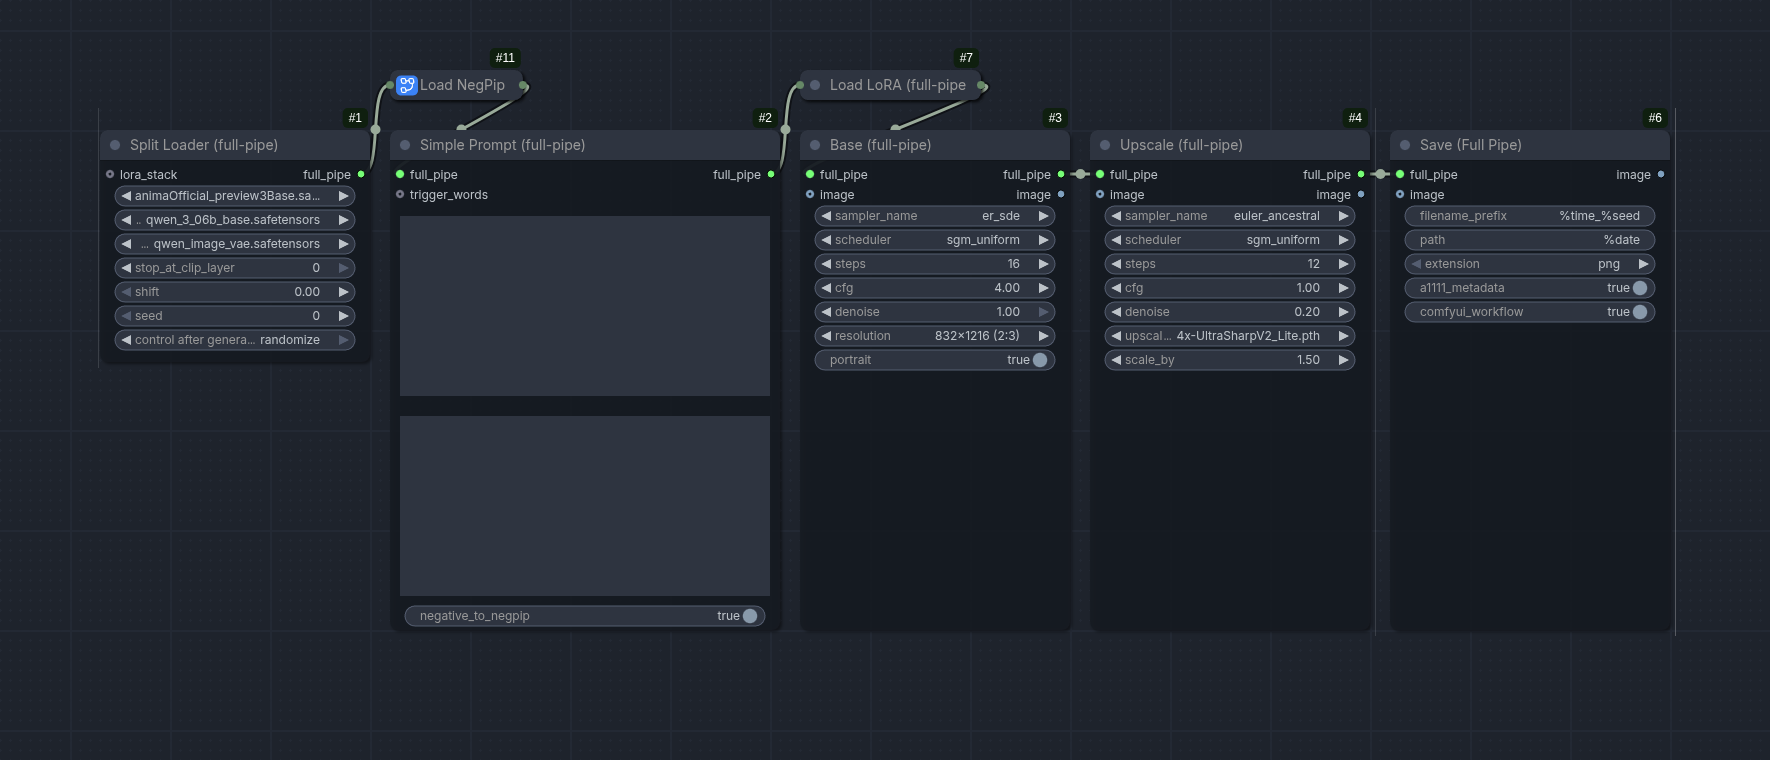
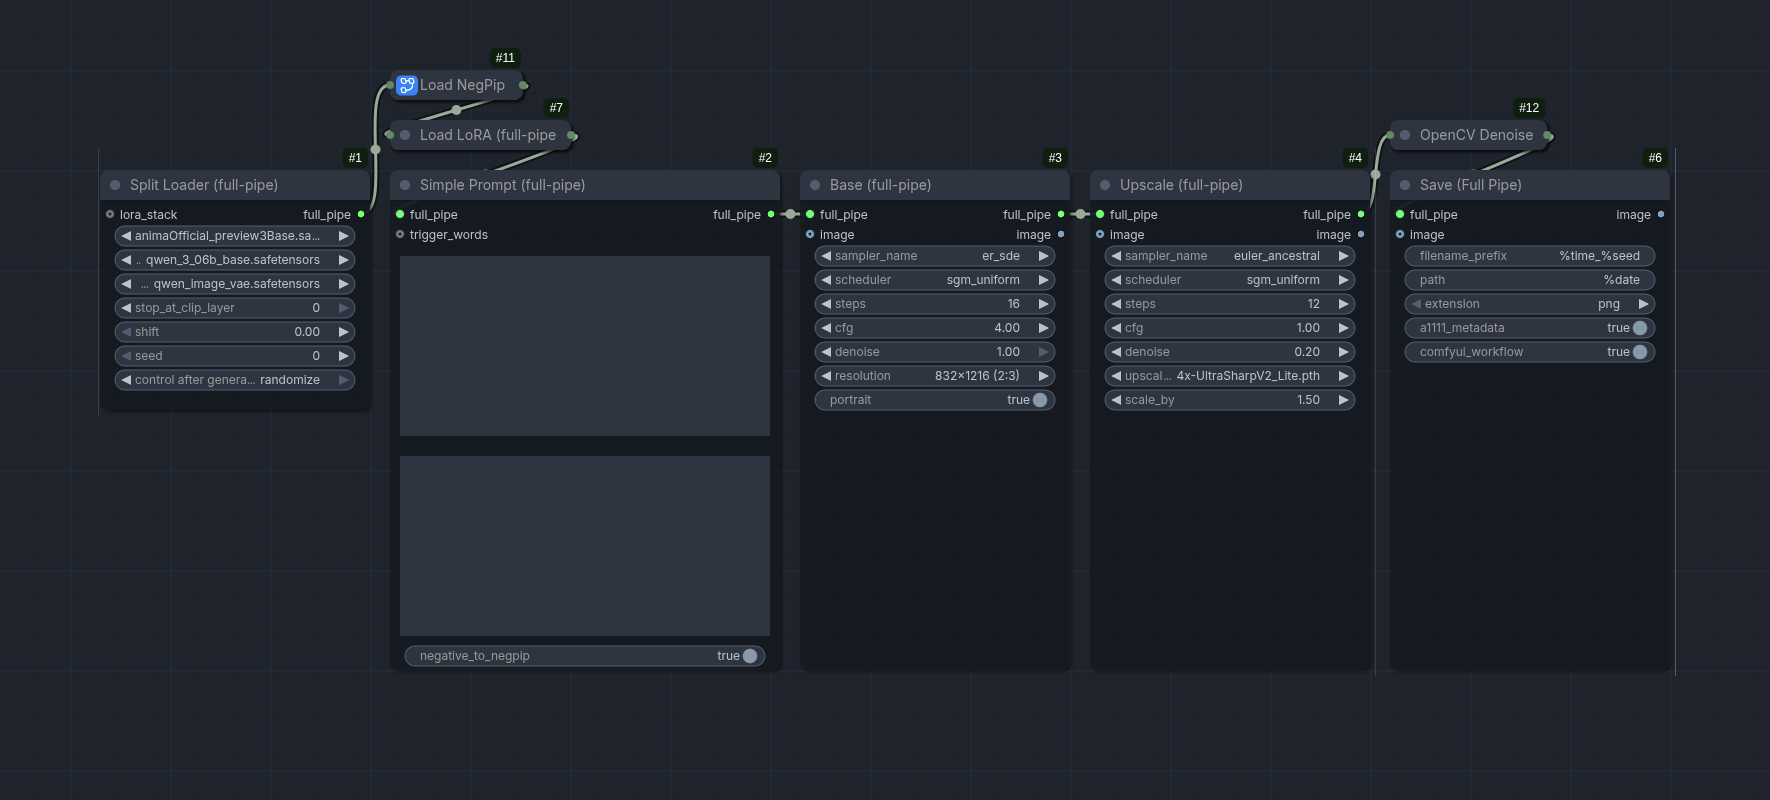
Updated preset manager page

Changed region(s): [[0.0311, 0.0605, 0.9633, 0.5145], [0.2175, 0.7868, 0.435, 0.8474], [0.2175, 0.5145, 0.435, 0.575]]

diff --git a/docs/content/preset-manager/_index.md b/docs/content/preset-manager/_index.md
@@ -3,4 +3,10 @@ title: "Preset Manager"
 weight: 2
 ---
 
-The Preset Manager is a web interface that lets you define all of your prompt prests, with sections for characters, models, styles, and tags.
+The Preset Manager is a web interface that lets you define all of your prompt prests, with sections for characters, models, styles, and tags that you can easily use in the `Prompt (full-pipe)` node.
+
+![Preset Manager](/assets/preset-manager.png)
+
+{{< callout type="info" >}}
+This was made for SDXL models. Anima requires more specific prompt order and isn't currently supported.
+{{< /callout >}}
